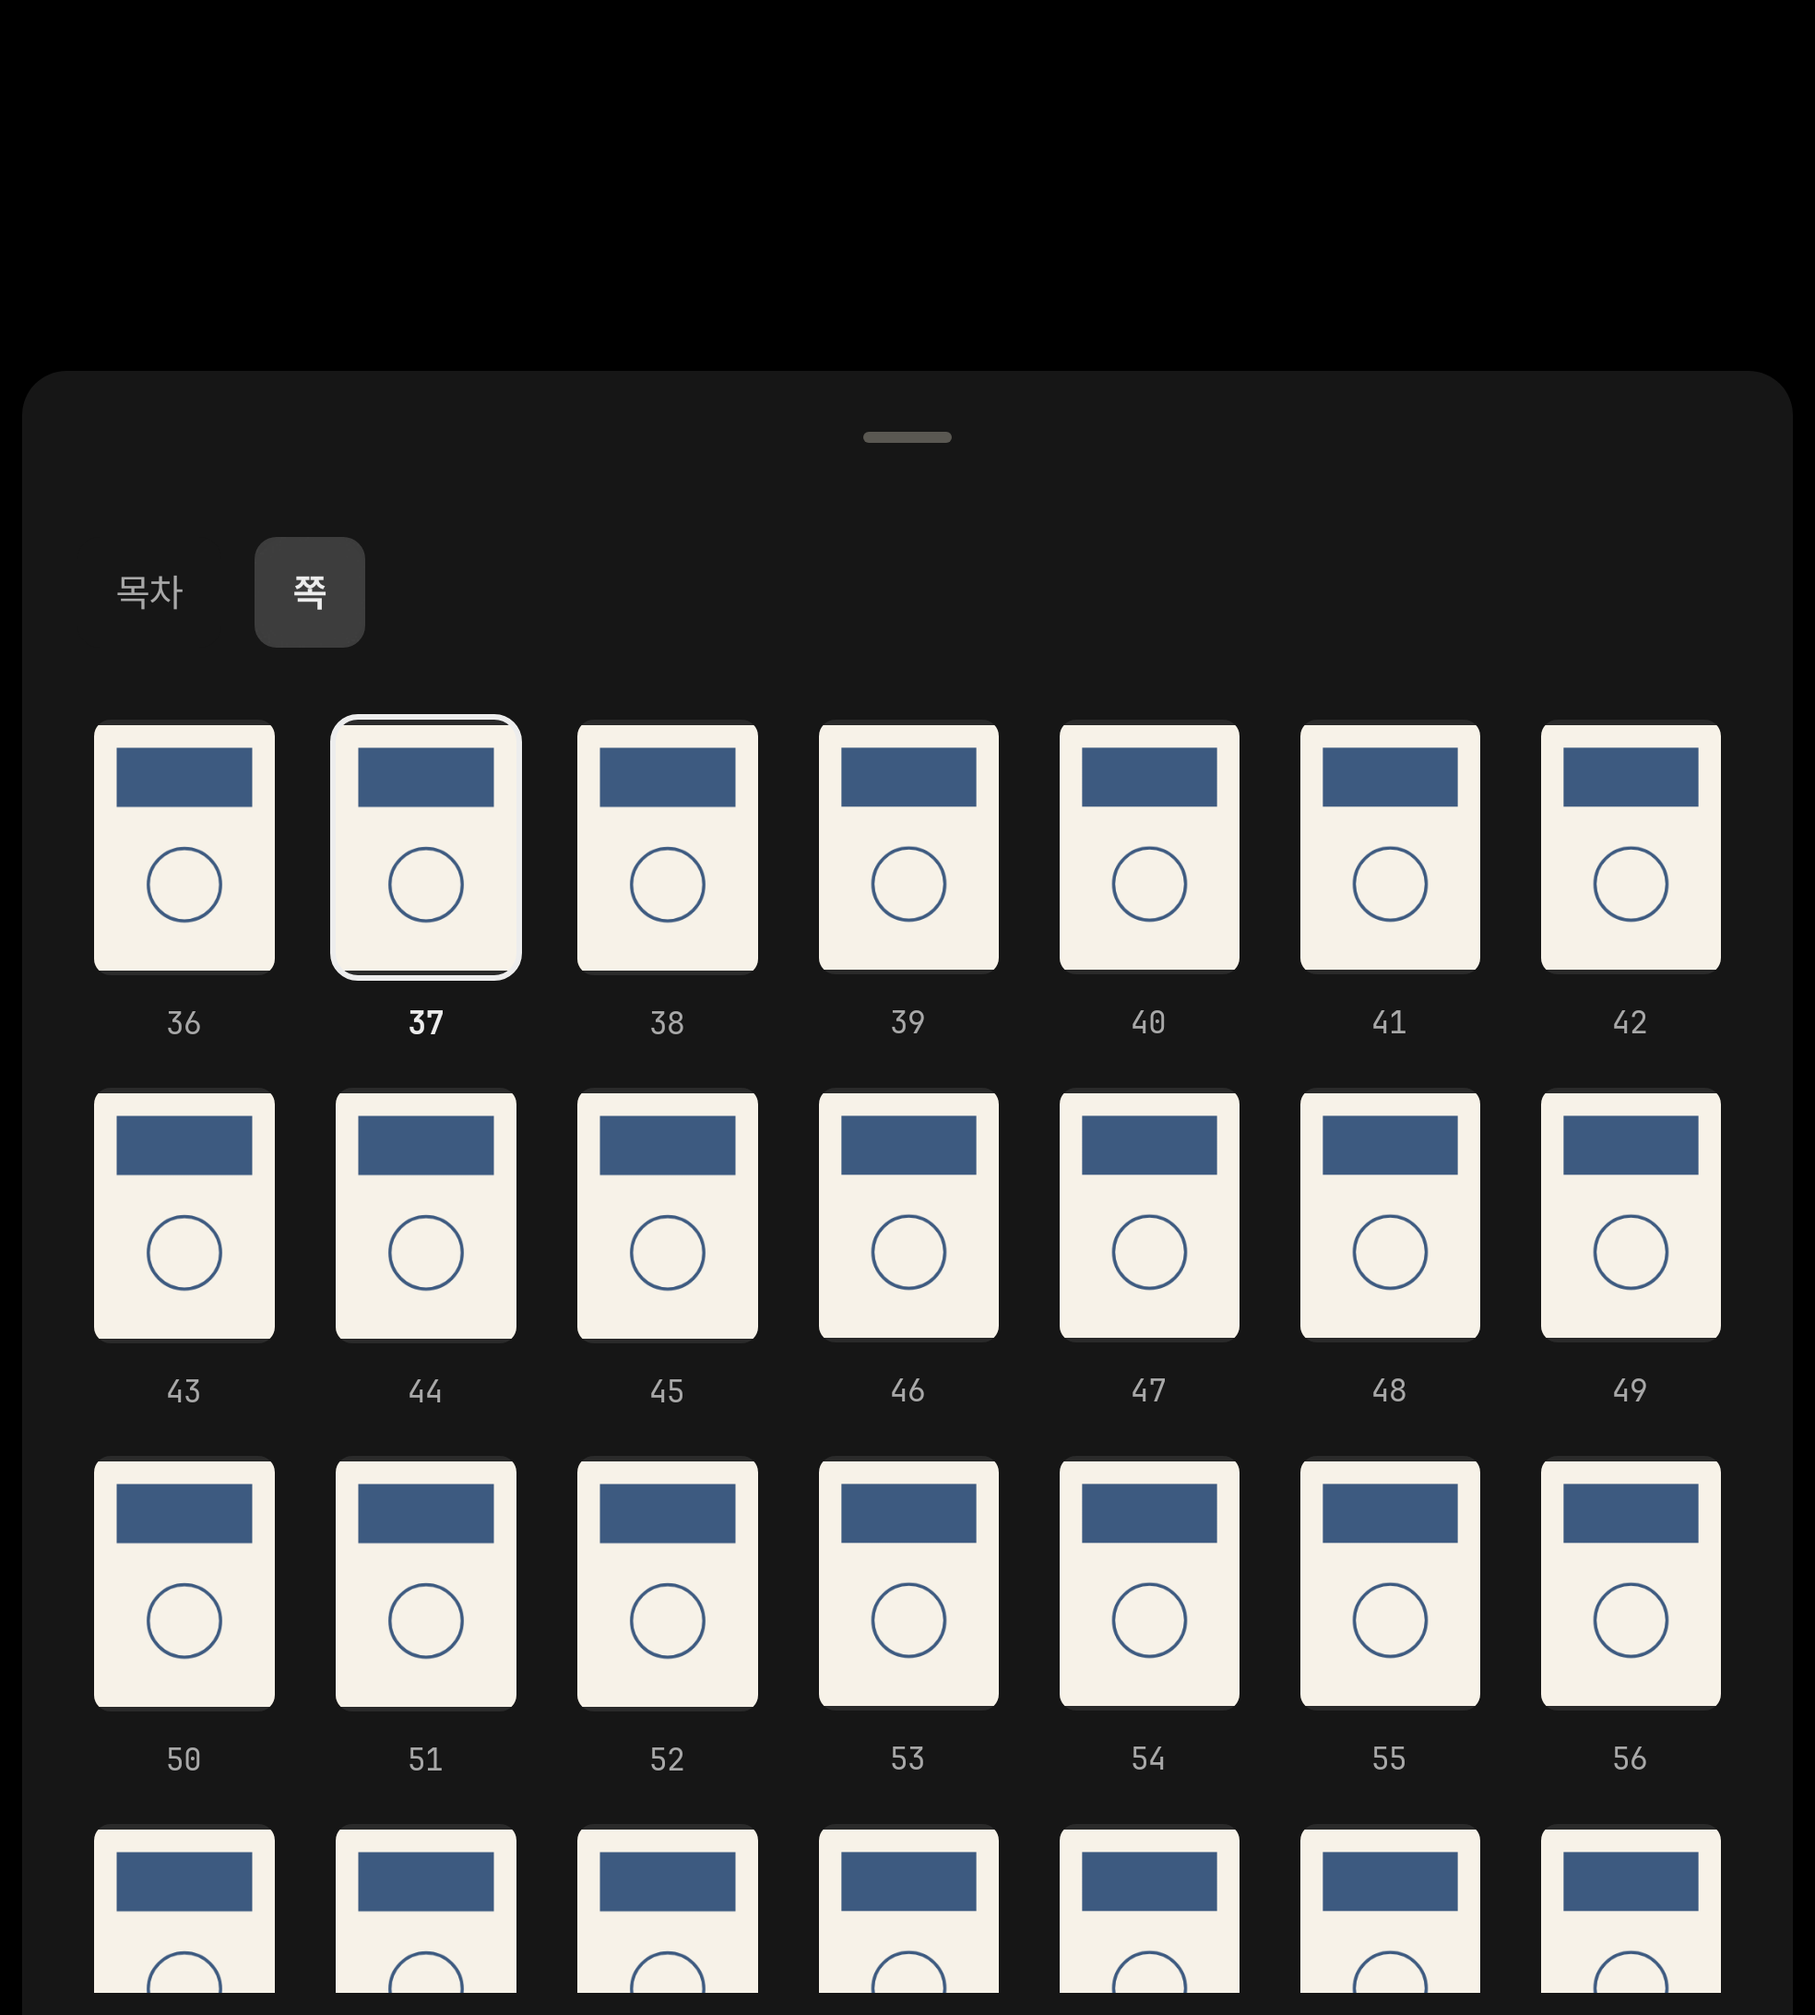
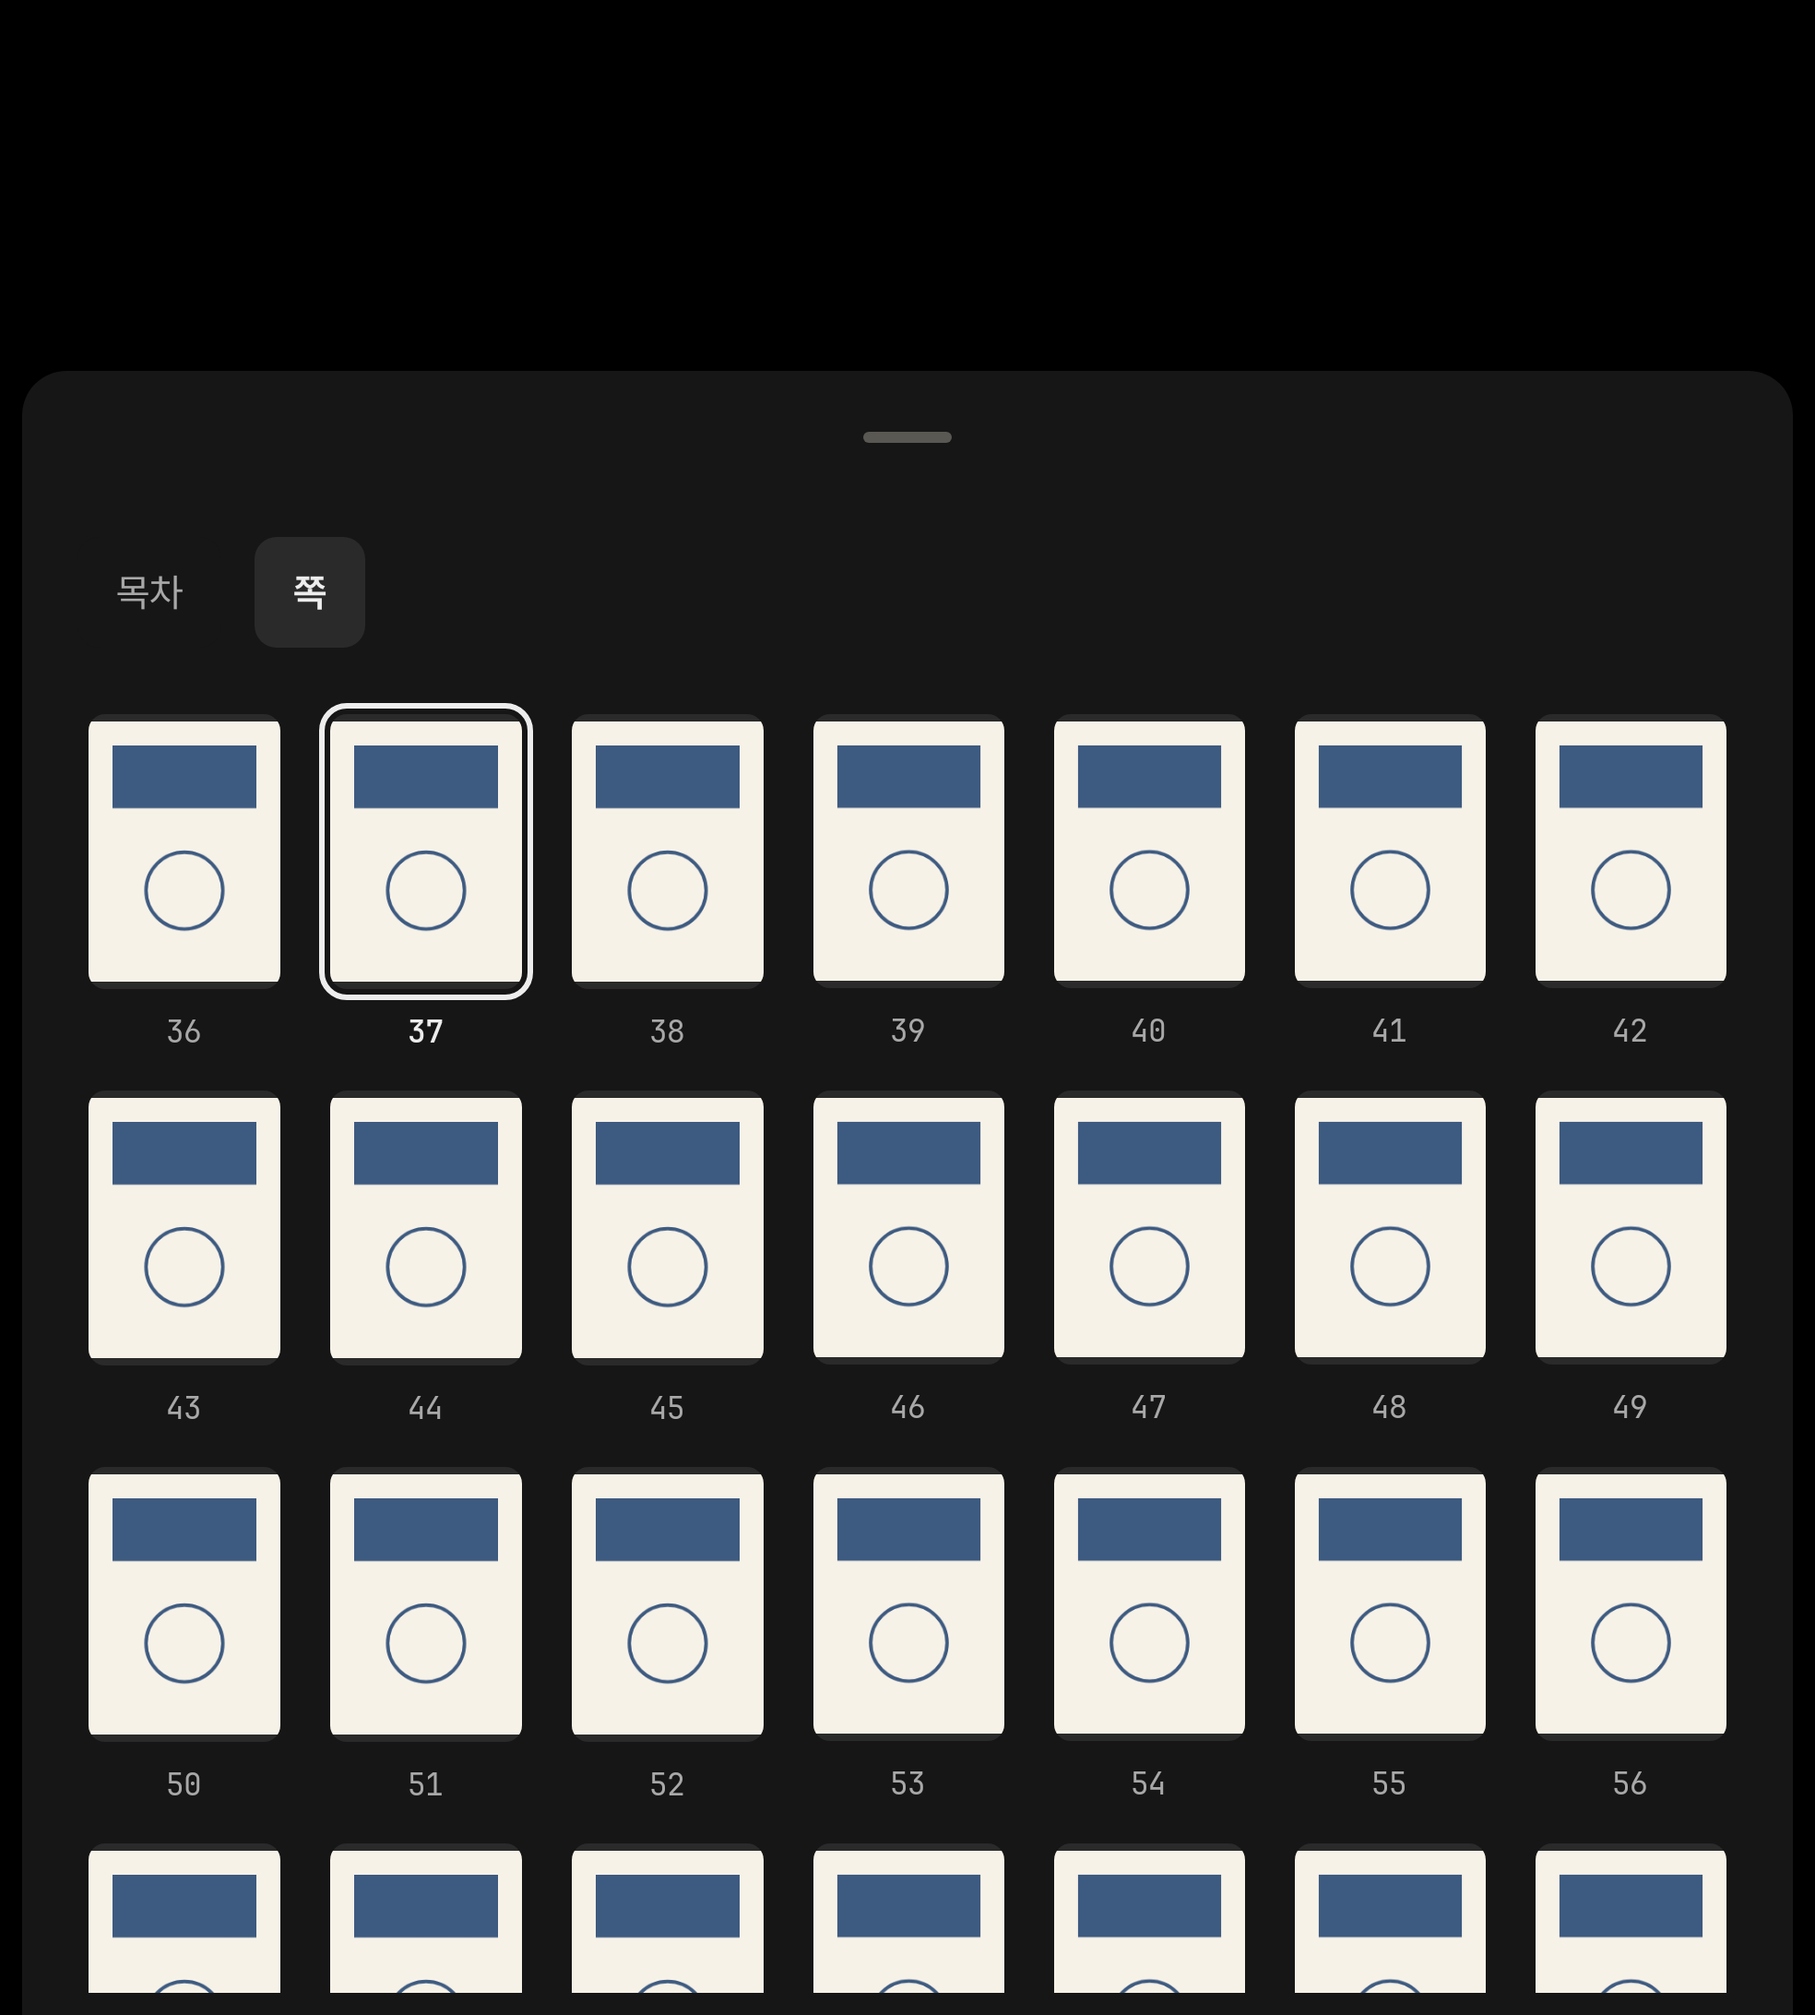
test(reader): measure the page-nav tab chip and capture the sheet idle
Assert the 40dp chip (growing with the font scale) separately from the 48dp touch target, and disable the indication in the screenshot harness so the clicked tab is captured as readerChip. Re-record the four thumbnail captures.

diff --git a/app/src/test/java/org/parkjw/apps/pdfbook/screenshot/PageNavScreenshotsTest.kt b/app/src/test/java/org/parkjw/apps/pdfbook/screenshot/PageNavScreenshotsTest.kt
@@ -1,11 +1,16 @@
 package org.parkjw.apps.pdfbook.screenshot
 
+import androidx.compose.foundation.IndicationNodeFactory
+import androidx.compose.foundation.LocalIndication
 import androidx.compose.foundation.background
+import androidx.compose.foundation.interaction.InteractionSource
 import androidx.compose.foundation.layout.Box
 import androidx.compose.foundation.layout.fillMaxSize
 import androidx.compose.foundation.pager.rememberPagerState
 import androidx.compose.runtime.Composable
+import androidx.compose.runtime.CompositionLocalProvider
 import androidx.compose.ui.Modifier
+import androidx.compose.ui.node.DelegatableNode
 import androidx.compose.ui.test.junit4.v2.createComposeRule
 import androidx.compose.ui.test.onNodeWithTag
 import androidx.compose.ui.test.onRoot
@@ -27,6 +32,12 @@ import org.parkjw.apps.pdfbook.spreads
 import org.parkjw.apps.pdfbook.ui.theme.ReaderBackground
 import org.robolectric.annotation.Config
 import org.robolectric.annotation.GraphicsMode
+
+private object NoRippleIndication : IndicationNodeFactory {
+    override fun create(interactionSource: InteractionSource): DelegatableNode = object : Modifier.Node() {}
+    override fun equals(other: Any?) = this === other
+    override fun hashCode() = System.identityHashCode(this)
+}
 
 @RunWith(AndroidJUnit4::class)
 @GraphicsMode(GraphicsMode.Mode.NATIVE)
@@ -100,28 +111,29 @@ class PageNavScreenshotsTest {
 
     @OptIn(ExperimentalRoborazziApi::class)
     private fun captureSheet(file: String, dark: Boolean, pagesTab: Boolean) {
-        composeRule.mainClock.autoAdvance = false
         composeRule.setContent {
             ScreenshotTheme(dark, ReaderBackground) {
-                Box(Modifier.fillMaxSize().background(ReaderBackground)) {
-                    PageNavSheet(
-                        renderer = samplePages(),
-                        outline = sampleOutline,
-                        pageCount = 120,
-                        currentPage = 37,
-                        onPick = {},
-                        onDismiss = {},
-                    )
+                CompositionLocalProvider(LocalIndication provides NoRippleIndication) {
+                    Box(Modifier.fillMaxSize().background(ReaderBackground)) {
+                        PageNavSheet(
+                            renderer = samplePages(),
+                            outline = sampleOutline,
+                            pageCount = 120,
+                            currentPage = 37,
+                            onPick = {},
+                            onDismiss = {},
+                        )
+                    }
                 }
             }
         }
-        composeRule.mainClock.advanceTimeBy(1000)
         composeRule.waitForIdle()
         if (pagesTab) {
+            // NoRippleIndication keeps the clicked chip at readerChip, not a frozen pressed state layer.
             composeRule.onNodeWithTag("page_nav_tab_pages").performClick()
-            composeRule.mainClock.advanceTimeBy(1000)
             composeRule.waitForIdle()
         }
+        composeRule.mainClock.autoAdvance = false
         captureScreenRoboImage(file)
     }
 

diff --git a/app/src/test/java/org/parkjw/apps/pdfbook/PageNavTabComposeTest.kt b/app/src/test/java/org/parkjw/apps/pdfbook/PageNavTabComposeTest.kt
@@ -8,9 +8,9 @@ import androidx.compose.runtime.mutableFloatStateOf
 import androidx.compose.runtime.mutableIntStateOf
 import androidx.compose.runtime.setValue
 import androidx.compose.ui.Modifier
-import androidx.compose.ui.geometry.Offset
 import androidx.compose.ui.platform.LocalDensity
 import androidx.compose.ui.test.assertIsDisplayed
+import androidx.compose.ui.test.assertTouchHeightIsEqualTo
 import androidx.compose.ui.test.click
 import androidx.compose.ui.test.getBoundsInRoot
 import androidx.compose.ui.test.junit4.v2.createComposeRule
@@ -49,24 +49,27 @@ class PageNavTabComposeTest {
                 }
             }
         }
-        assertSizes(minChip = 40.dp)
-        // The 40dp chip is centred in the 48dp interactive area, so a tap 3dp above it still lands on the tab.
-        composeRule.onNodeWithTag("tab").performTouchInput { click(Offset(center.x, -3.dp.toPx())) }
+        val chipAt1x = assertSizes(minChip = 40.dp)
+        composeRule.onNodeWithTag("tab").performTouchInput { click() }
         composeRule.waitForIdle()
         assertEquals(1, clicks)
         fontScale = 2f
         composeRule.waitForIdle()
-        assertSizes(minChip = 48.dp)
+        val chipAt2x = assertSizes(minChip = 40.dp)
+        assertTrue("chip grows with font: $chipAt1x -> $chipAt2x", chipAt2x > chipAt1x)
         composeRule.onNodeWithTag("tab").performTouchInput { click() }
         composeRule.waitForIdle()
         assertEquals(2, clicks)
     }
 
-    private fun assertSizes(minChip: Dp) {
-        val tab = composeRule.onNodeWithTag("tab").assertIsDisplayed()
-        val bounds = tab.getBoundsInRoot()
-        val chip = bounds.bottom - bounds.top
-        assertTrue("chip $chip at $fontScale", chip >= minChip)
+    private fun assertSizes(minChip: Dp): Dp {
+        val chip = composeRule.onNodeWithTag("tab_chip", useUnmergedTree = true).getBoundsInRoot()
+        val chipHeight = chip.bottom - chip.top
+        assertTrue("chip $chipHeight at $fontScale", chipHeight >= minChip)
+        if (chipHeight < 48.dp) {
+            composeRule.onNodeWithTag("tab").assertIsDisplayed().assertTouchHeightIsEqualTo(48.dp)
+        }
         composeRule.onNodeWithText("목차", useUnmergedTree = true).assertIsDisplayed()
+        return chipHeight
     }
 }
